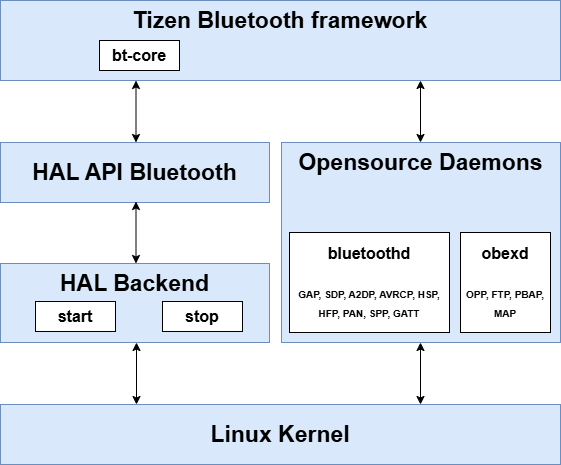
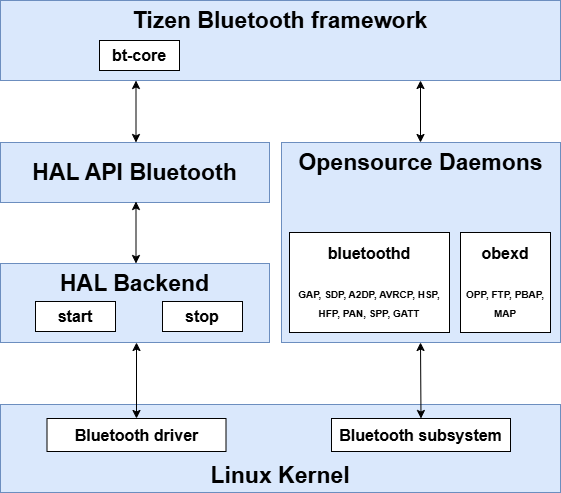
[HAL/Bluetooth] Update docs/platform/HAL/connectivity.md
This patch updates the following:
- Module informations
- Achitecture Diagram

diff --git a/docs/platform/HAL/connectivity.md b/docs/platform/HAL/connectivity.md
@@ -12,14 +12,14 @@ This section explains the Bluetooth architecture on the Tizen platform and how T
 
 ![Tizen Bluetooth architecture](media/800px-bluetooth.png)
 
-The Bluetooth framework provides a dialogue for the user to control the BlueZ, ObexD, and PulseAudio daemons. Bluetooth provides a standard interface between the Bluetooth chip and AP, called the HCI (Host Controller Interface). HCI can be implemented on USB, UART, and SDIO, but for the mobile environment, UART is the most common. HCI activation can differ depending on the chip vendor. The vendor provides the HCI configuration and the initial scripts. For example, Broadcom and Spreadtrum provide firmware and a loading tool. Tizen supports Bluetooth version 5.0, and the GATT, FTP, OPP, MAP, PBAP, A2DP, AVRCP, HSP/HFP, RFCOMM, HID, HDP, and PAN profiles.
+The Bluetooth framework provides a dialogue for the user to control the BlueZ and ObexD daemons. Bluetooth provides a standard interface between the Bluetooth chip and AP, called the HCI (Host Controller Interface). HCI can be implemented on USB, UART, and SDIO, but for the mobile environment, UART is the most common. HCI activation can differ depending on the chip vendor. The vendor provides the HCI configuration and the initial scripts. For example, Broadcom and Spreadtrum provide firmware and a loading tool. Tizen supports Bluetooth version 5.0, and the GATT, FTP, OPP, MAP, PBAP, A2DP, AVRCP, HSP/HFP, RFCOMM, HID, HDP, and PAN profiles.
 
 The Tizen Bluetooth framework is based on the open source BlueZ project. BlueZ provides the DBUS API and based on it, Tizen Bluetooth framework provides the C Language API. Using the Tizen Bluetooth framework is recommended.
 
 The following components are necessary for Bluetooth:
 
 - Application
-  - User dialogue that controls the BlueZ, ObexD, and PulseAudio daemons
+  - User dialogue that controls the BlueZ and ObexD daemons
 - ObexD
   - Open source component
   - Object exchange daemon
@@ -38,7 +38,7 @@ The following components are necessary for Bluetooth:
 - Bluetooth firmware loading module
   - Depending on the environment, it loads the Bluetooth firmware to the Bluetooth chip
   - Tizen and the chipset vendor need to implement this together
-  - Package: `bluetooth-tools`
+  - Package: `bluetooth-firmware-bcm`
 
 ### Porting the HAL Backend interface
 
@@ -58,7 +58,7 @@ The process is as follows:
 
 ### References
 
-Open source component version: BlueZ 5.79
+Open source component : BlueZ
 
 For more information, see [http://www.bluez.org/](http://www.bluez.org/).
 
